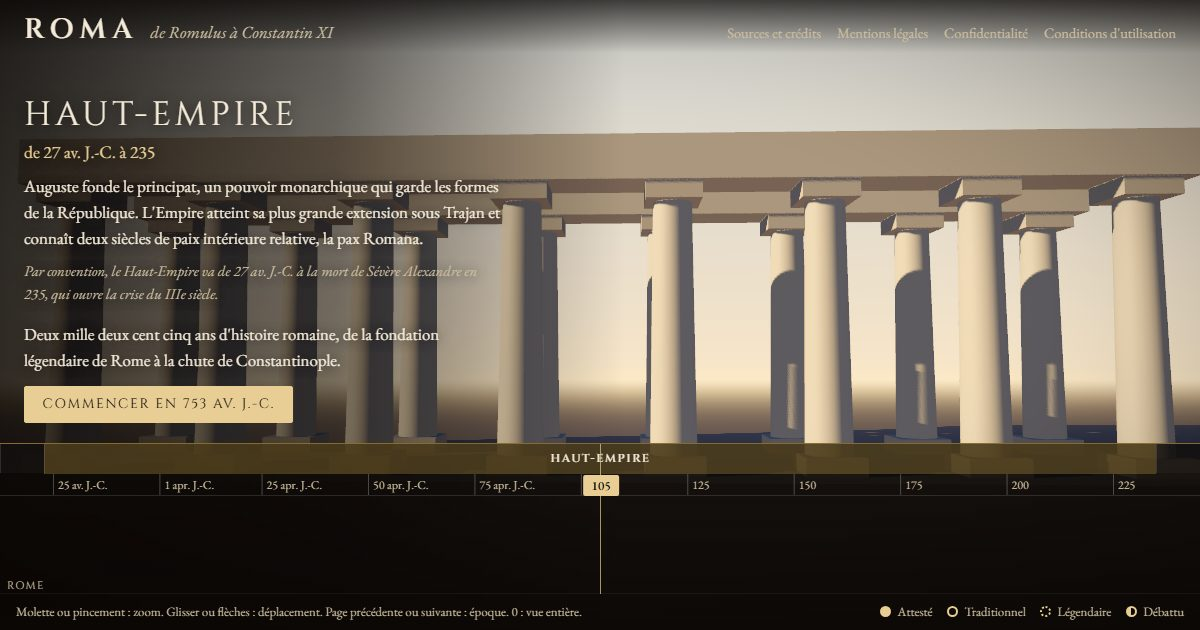
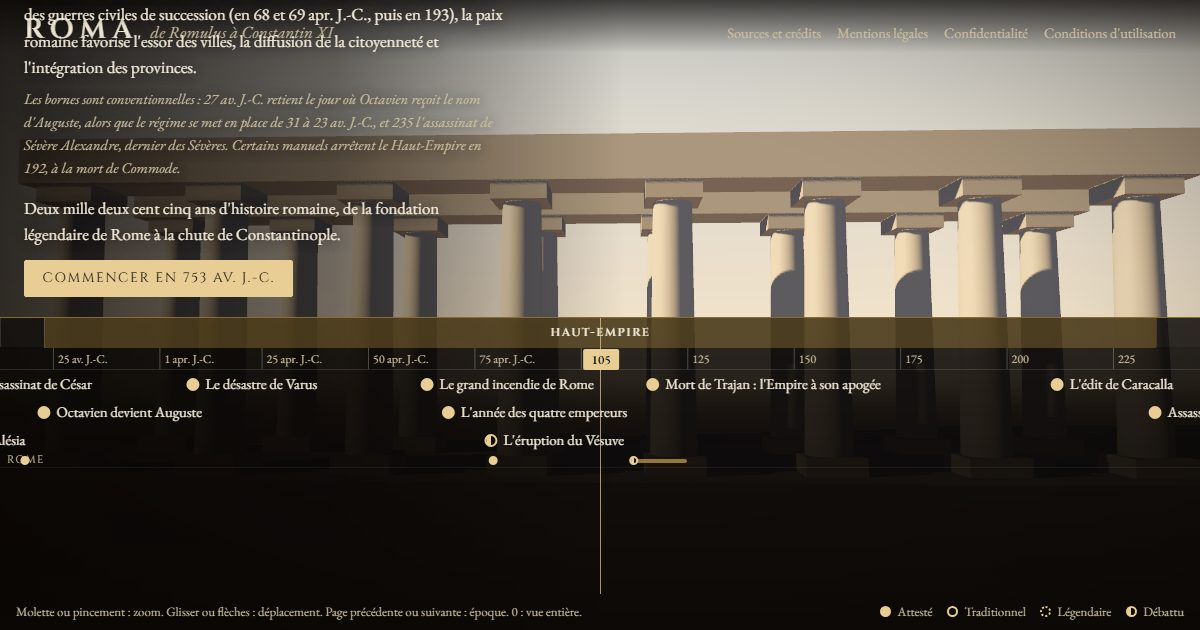
Polish French typography, touch targets and timeline height
Digit groups, era mentions and French punctuation get non breaking
spaces, compact markers get a larger touch area, the timeline keeps
a constant height as parallel tracks come and go, and the sharing
image now shows the events.

Changed region(s): [[0.0, 0.1508, 1.0, 0.7841], [0.0, 0.0, 0.4317, 0.1206], [0.0, 0.9048, 0.0308, 0.9349]]

diff --git a/src/ui/panels.tsx b/src/ui/panels.tsx
@@ -1,5 +1,6 @@
 import { useEffect, useRef, type ReactNode } from 'react'
 import { formatDate, formatRange } from '../core/dates.ts'
+import { frenchSpacing } from '../core/typography.ts'
 import { eras } from '../data/eras.ts'
 import type { Page } from '../data/pages.ts'
 import { people } from '../data/people.ts'
@@ -77,10 +78,10 @@ export function EventPanel({ event }: { event: HistoricalEvent }) {
           <strong>
             {UI.certainty} : {certainty.label.toLowerCase()}.
           </strong>{' '}
-          {event.certaintyNote ?? certainty.description}
+          {frenchSpacing(event.certaintyNote ?? certainty.description)}
         </span>
       </p>
-      <p className="panel__summary">{event.summary}</p>
+      <p className="panel__summary">{frenchSpacing(event.summary)}</p>
       <Markdown className="panel__body prose" source={event.body} />
       {(place || persons.length > 0) && (
         <dl className="panel__facts">
@@ -124,7 +125,7 @@ export function NotFoundPanel() {
       <h2 id="panel-title" className="panel__title" tabIndex={-1}>
         {UI.notFoundTitle}
       </h2>
-      <p>{UI.notFoundText}</p>
+      <p>{frenchSpacing(UI.notFoundText)}</p>
       <p>
         <a href="#/">{UI.backHome}</a>
       </p>
@@ -139,8 +140,8 @@ export function EraCaption({ index }: { index: number }) {
     <section className="era-caption" aria-live="polite">
       <h2 className="era-caption__name">{era.name}</h2>
       <p className="era-caption__range">{formatRange(era.start, era.end)}</p>
-      <p className="era-caption__summary">{era.summary}</p>
-      <p className="era-caption__note">{era.boundsNote}</p>
+      <p className="era-caption__summary">{frenchSpacing(era.summary)}</p>
+      <p className="era-caption__note">{frenchSpacing(era.boundsNote)}</p>
     </section>
   )
 }

diff --git a/tests/look.spec.ts b/tests/look.spec.ts
@@ -1,17 +1,21 @@
-import { test } from '@playwright/test'
+import { test, type Page } from '@playwright/test'
 
 test.skip(!!process.env.CI, 'captures are reviewed locally')
 
-test('capture the home screen', async ({ page }, testInfo) => {
+async function capture(page: Page, name: string, project: string) {
+  await page.waitForTimeout(2500)
+  await page.screenshot({ path: `test-results/look-${name}-${project}.png` })
+}
+
+test('capture the main screens', async ({ page }, testInfo) => {
+  const project = testInfo.project.name
   await page.goto('./')
   await page.locator('.eras__button').first().waitFor()
-  await page.waitForTimeout(2500)
-  await page.screenshot({ path: `test-results/look-home-${testInfo.project.name}.png` })
-  await page.keyboard.press('PageDown')
-  await page.keyboard.press('PageDown')
-  await page.waitForTimeout(1500)
-  await page.screenshot({ path: `test-results/look-era-${testInfo.project.name}.png` })
-  await page.goto('./?debug#/mentions-legales')
-  await page.waitForTimeout(2500)
-  await page.screenshot({ path: `test-results/look-page-${testInfo.project.name}.png` })
+  await capture(page, 'home', project)
+  await page.getByRole('button', { name: /^République,/ }).click()
+  await capture(page, 'republique', project)
+  await page.goto('./#/evenement/bataille-de-cannes')
+  await capture(page, 'cannes', project)
+  await page.goto('./#/evenement/sac-de-constantinople-1204')
+  await capture(page, 'pistes-1204', project)
 })

diff --git a/src/core/typography.test.ts b/src/core/typography.test.ts
@@ -1,0 +1,29 @@
+import { describe, expect, it } from 'vitest'
+import { frenchSpacing } from './typography.ts'
+
+const nbsp = String.fromCharCode(0x00a0)
+const nnbsp = String.fromCharCode(0x202f)
+
+describe('frenchSpacing', () => {
+  it('keeps digit groups together', () => {
+    expect(frenchSpacing('jusqu’à 87 200 hommes et 1 000 000 de sesterces')).toBe(
+      `jusqu’à 87${nnbsp}200 hommes et 1${nnbsp}000${nnbsp}000 de sesterces`,
+    )
+  })
+
+  it('keeps era mentions with their year', () => {
+    expect(frenchSpacing('en 216 av. J.-C. et en 14 apr. J.-C.')).toBe(
+      `en 216${nbsp}av.${nbsp}J.-C. et en 14${nbsp}apr.${nbsp}J.-C.`,
+    )
+  })
+
+  it('binds French punctuation and quotes to their words', () => {
+    expect(frenchSpacing('Certitude : attesté ; « Bas-Empire » ?')).toBe(
+      `Certitude${nbsp}: attesté${nnbsp}; «${nnbsp}Bas-Empire${nnbsp}»${nnbsp}?`,
+    )
+  })
+
+  it('leaves years and urls alone', () => {
+    expect(frenchSpacing('de 509 à 27 https://example.org/a')).toBe('de 509 à 27 https://example.org/a')
+  })
+})

diff --git a/src/App.tsx b/src/App.tsx
@@ -1,5 +1,6 @@
 import { lazy, Suspense, useEffect } from 'react'
 import { formatDate } from './core/dates.ts'
+import { frenchSpacing } from './core/typography.ts'
 import { internalRoute, routeToHash, type Route } from './core/route.ts'
 import { eras } from './data/eras.ts'
 import { events } from './data/events.ts'
@@ -110,7 +111,7 @@ function Intro() {
   if (!first) return null
   return (
     <div className="intro">
-      <p className="intro__tagline">{UI.tagline}</p>
+      <p className="intro__tagline">{frenchSpacing(UI.tagline)}</p>
       <button type="button" className="button button--primary" onClick={() => animateView(viewAround(first.start, first.end, 0.04), 1.2)}>
         {UI.startCta}
       </button>

diff --git a/src/ui/Markdown.tsx b/src/ui/Markdown.tsx
@@ -1,5 +1,6 @@
 import { marked } from 'marked'
 import { useMemo } from 'react'
+import { frenchSpacing } from '../core/typography.ts'
 
 marked.use({
   renderer: {
@@ -12,6 +13,6 @@ marked.use({
 })
 
 export function Markdown({ source, className }: { source: string; className?: string }) {
-  const html = useMemo(() => marked.parse(source, { async: false }), [source])
+  const html = useMemo(() => marked.parse(frenchSpacing(source), { async: false }), [source])
   return <div className={className} dangerouslySetInnerHTML={{ __html: html }} />
 }

diff --git a/src/core/typography.ts b/src/core/typography.ts
@@ -1,0 +1,11 @@
+const NO_BREAK_SPACE = String.fromCharCode(0x00a0)
+const NARROW_NO_BREAK_SPACE = String.fromCharCode(0x202f)
+
+export function frenchSpacing(text: string): string {
+  return text
+    .replace(/(\d) (?=\d{3}\b)/g, `$1${NARROW_NO_BREAK_SPACE}`)
+    .replace(/(\d) (av\.|apr\.) J\.-C\./g, `$1${NO_BREAK_SPACE}$2${NO_BREAK_SPACE}J.-C.`)
+    .replace(/ ([;!?»])/g, `${NARROW_NO_BREAK_SPACE}$1`)
+    .replace(/ :/g, `${NO_BREAK_SPACE}:`)
+    .replace(/« /g, `«${NARROW_NO_BREAK_SPACE}`)
+}

diff --git a/src/styles.css b/src/styles.css
@@ -417,6 +417,10 @@ a {
   white-space: nowrap;
 }
 
+.lanes {
+  min-height: calc(var(--row-height) * 6 + var(--baseline-height) * 4);
+}
+
 .lane {
   position: relative;
   overflow: hidden;
@@ -478,6 +482,12 @@ a {
   bottom: 1px;
   height: 12px;
   padding: 0;
+}
+
+.event.is-compact::after {
+  content: '';
+  position: absolute;
+  inset: -10px -7px -4px;
 }
 
 .event.is-compact .event__marker {
